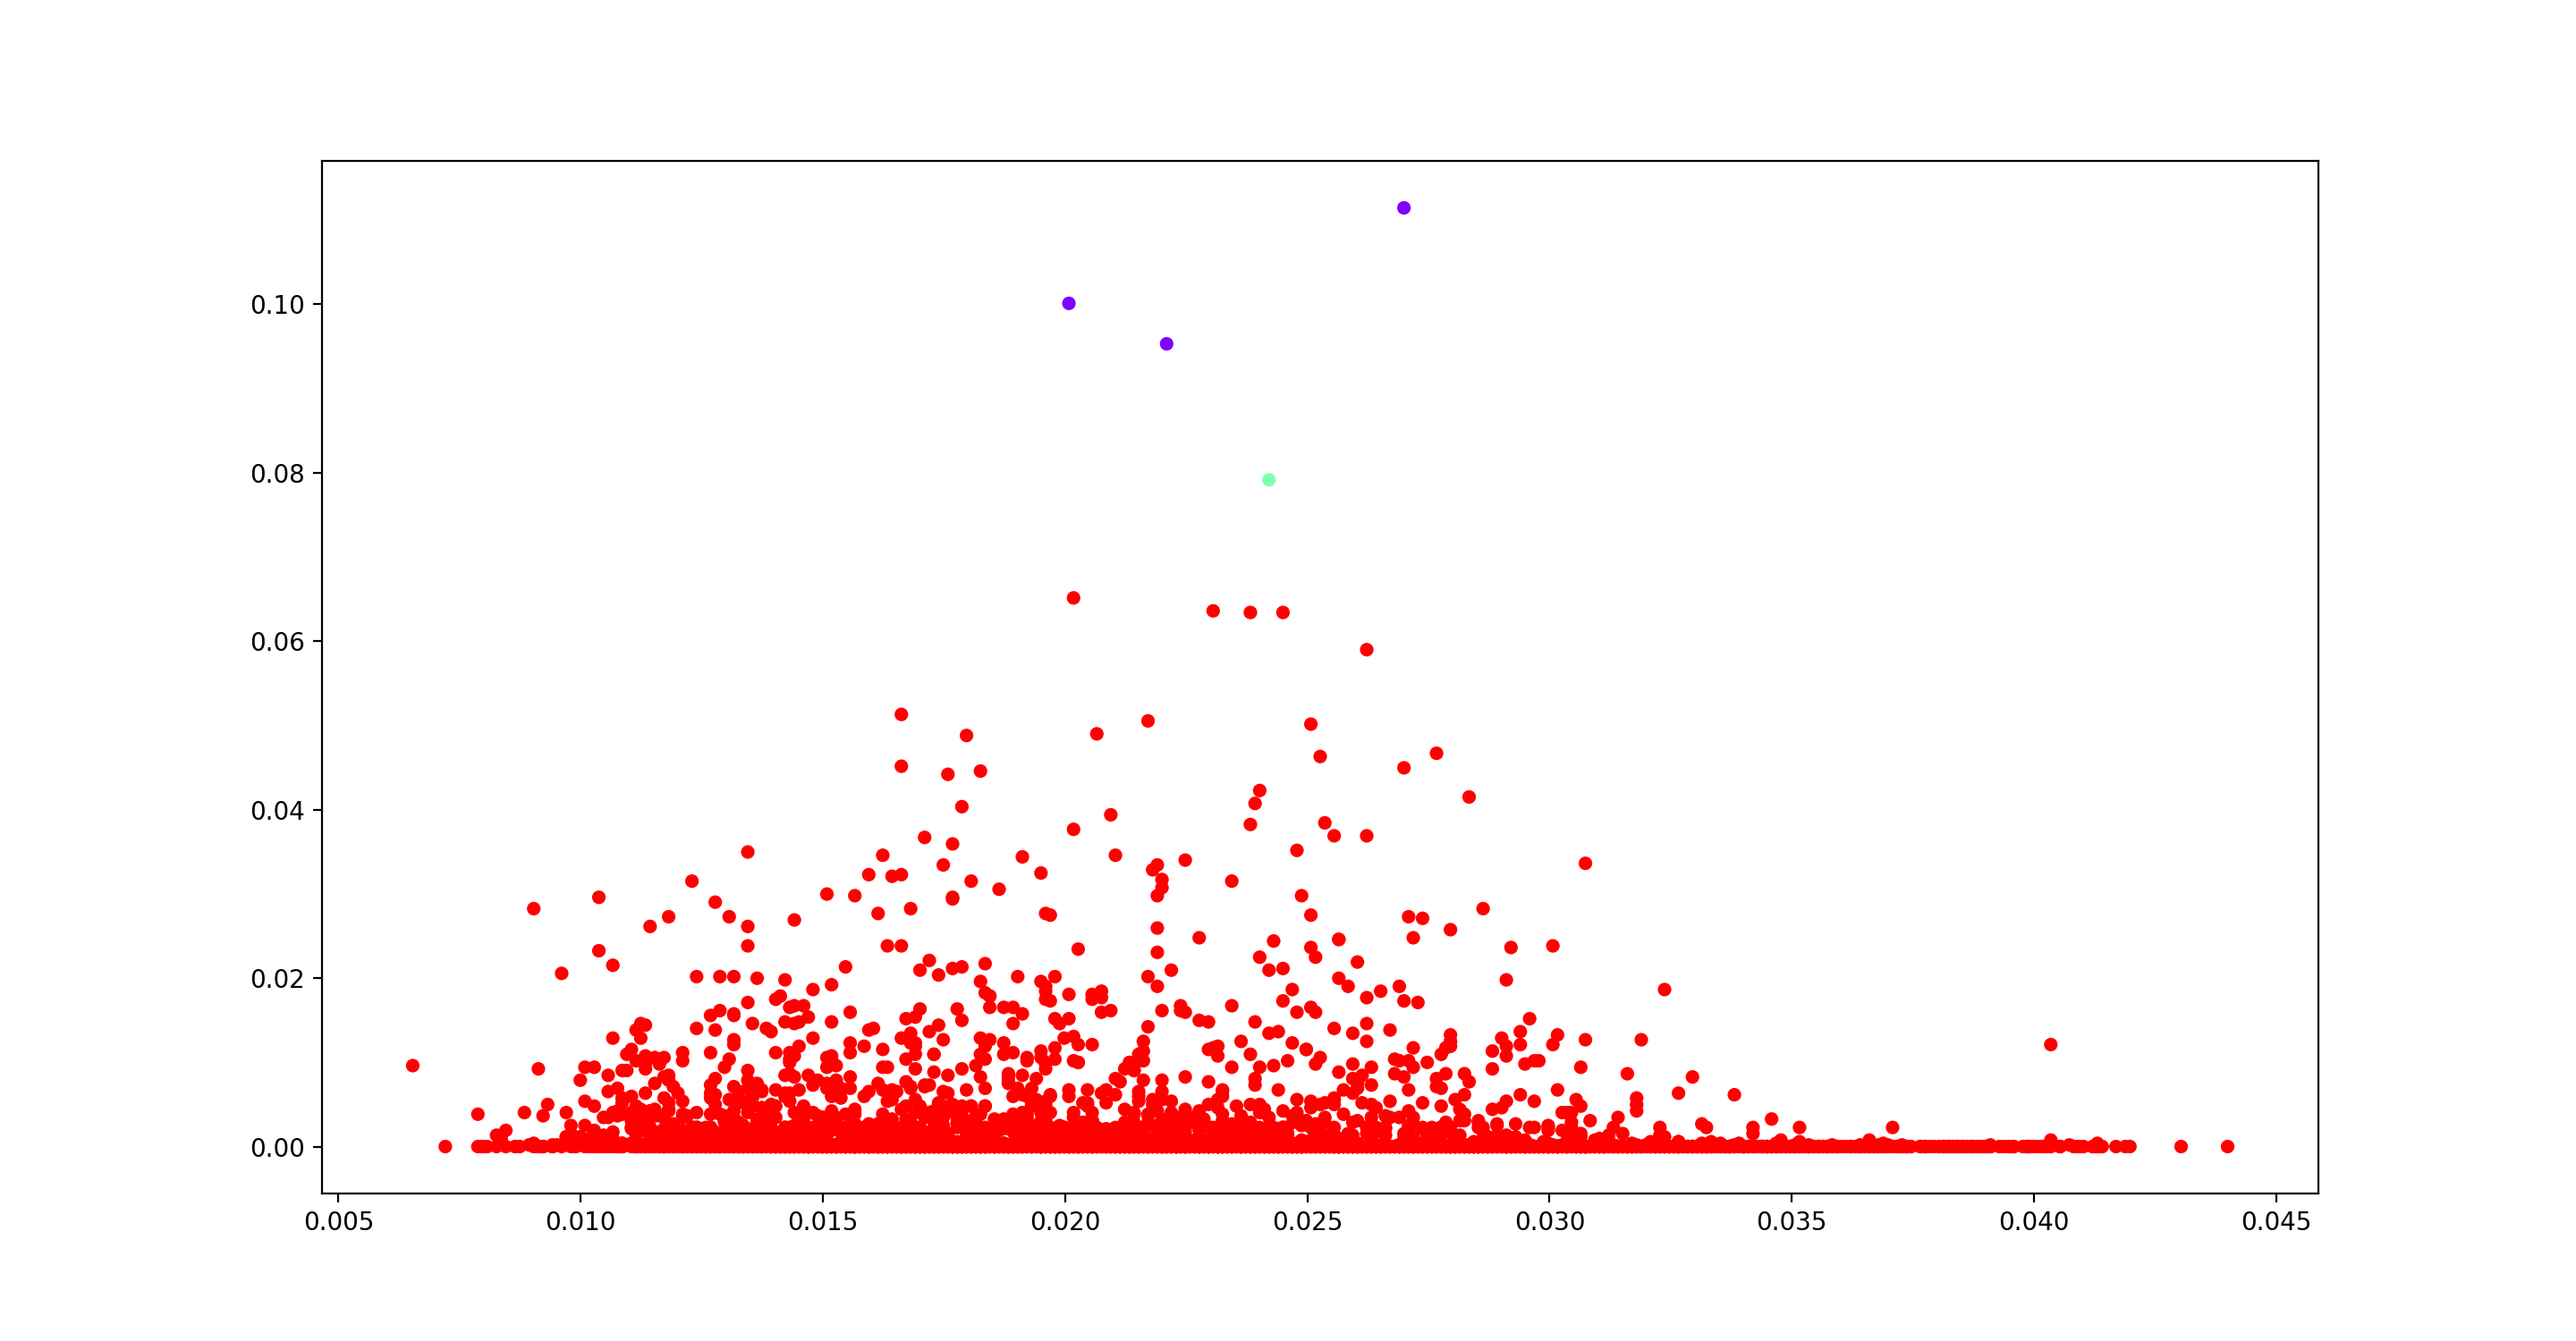
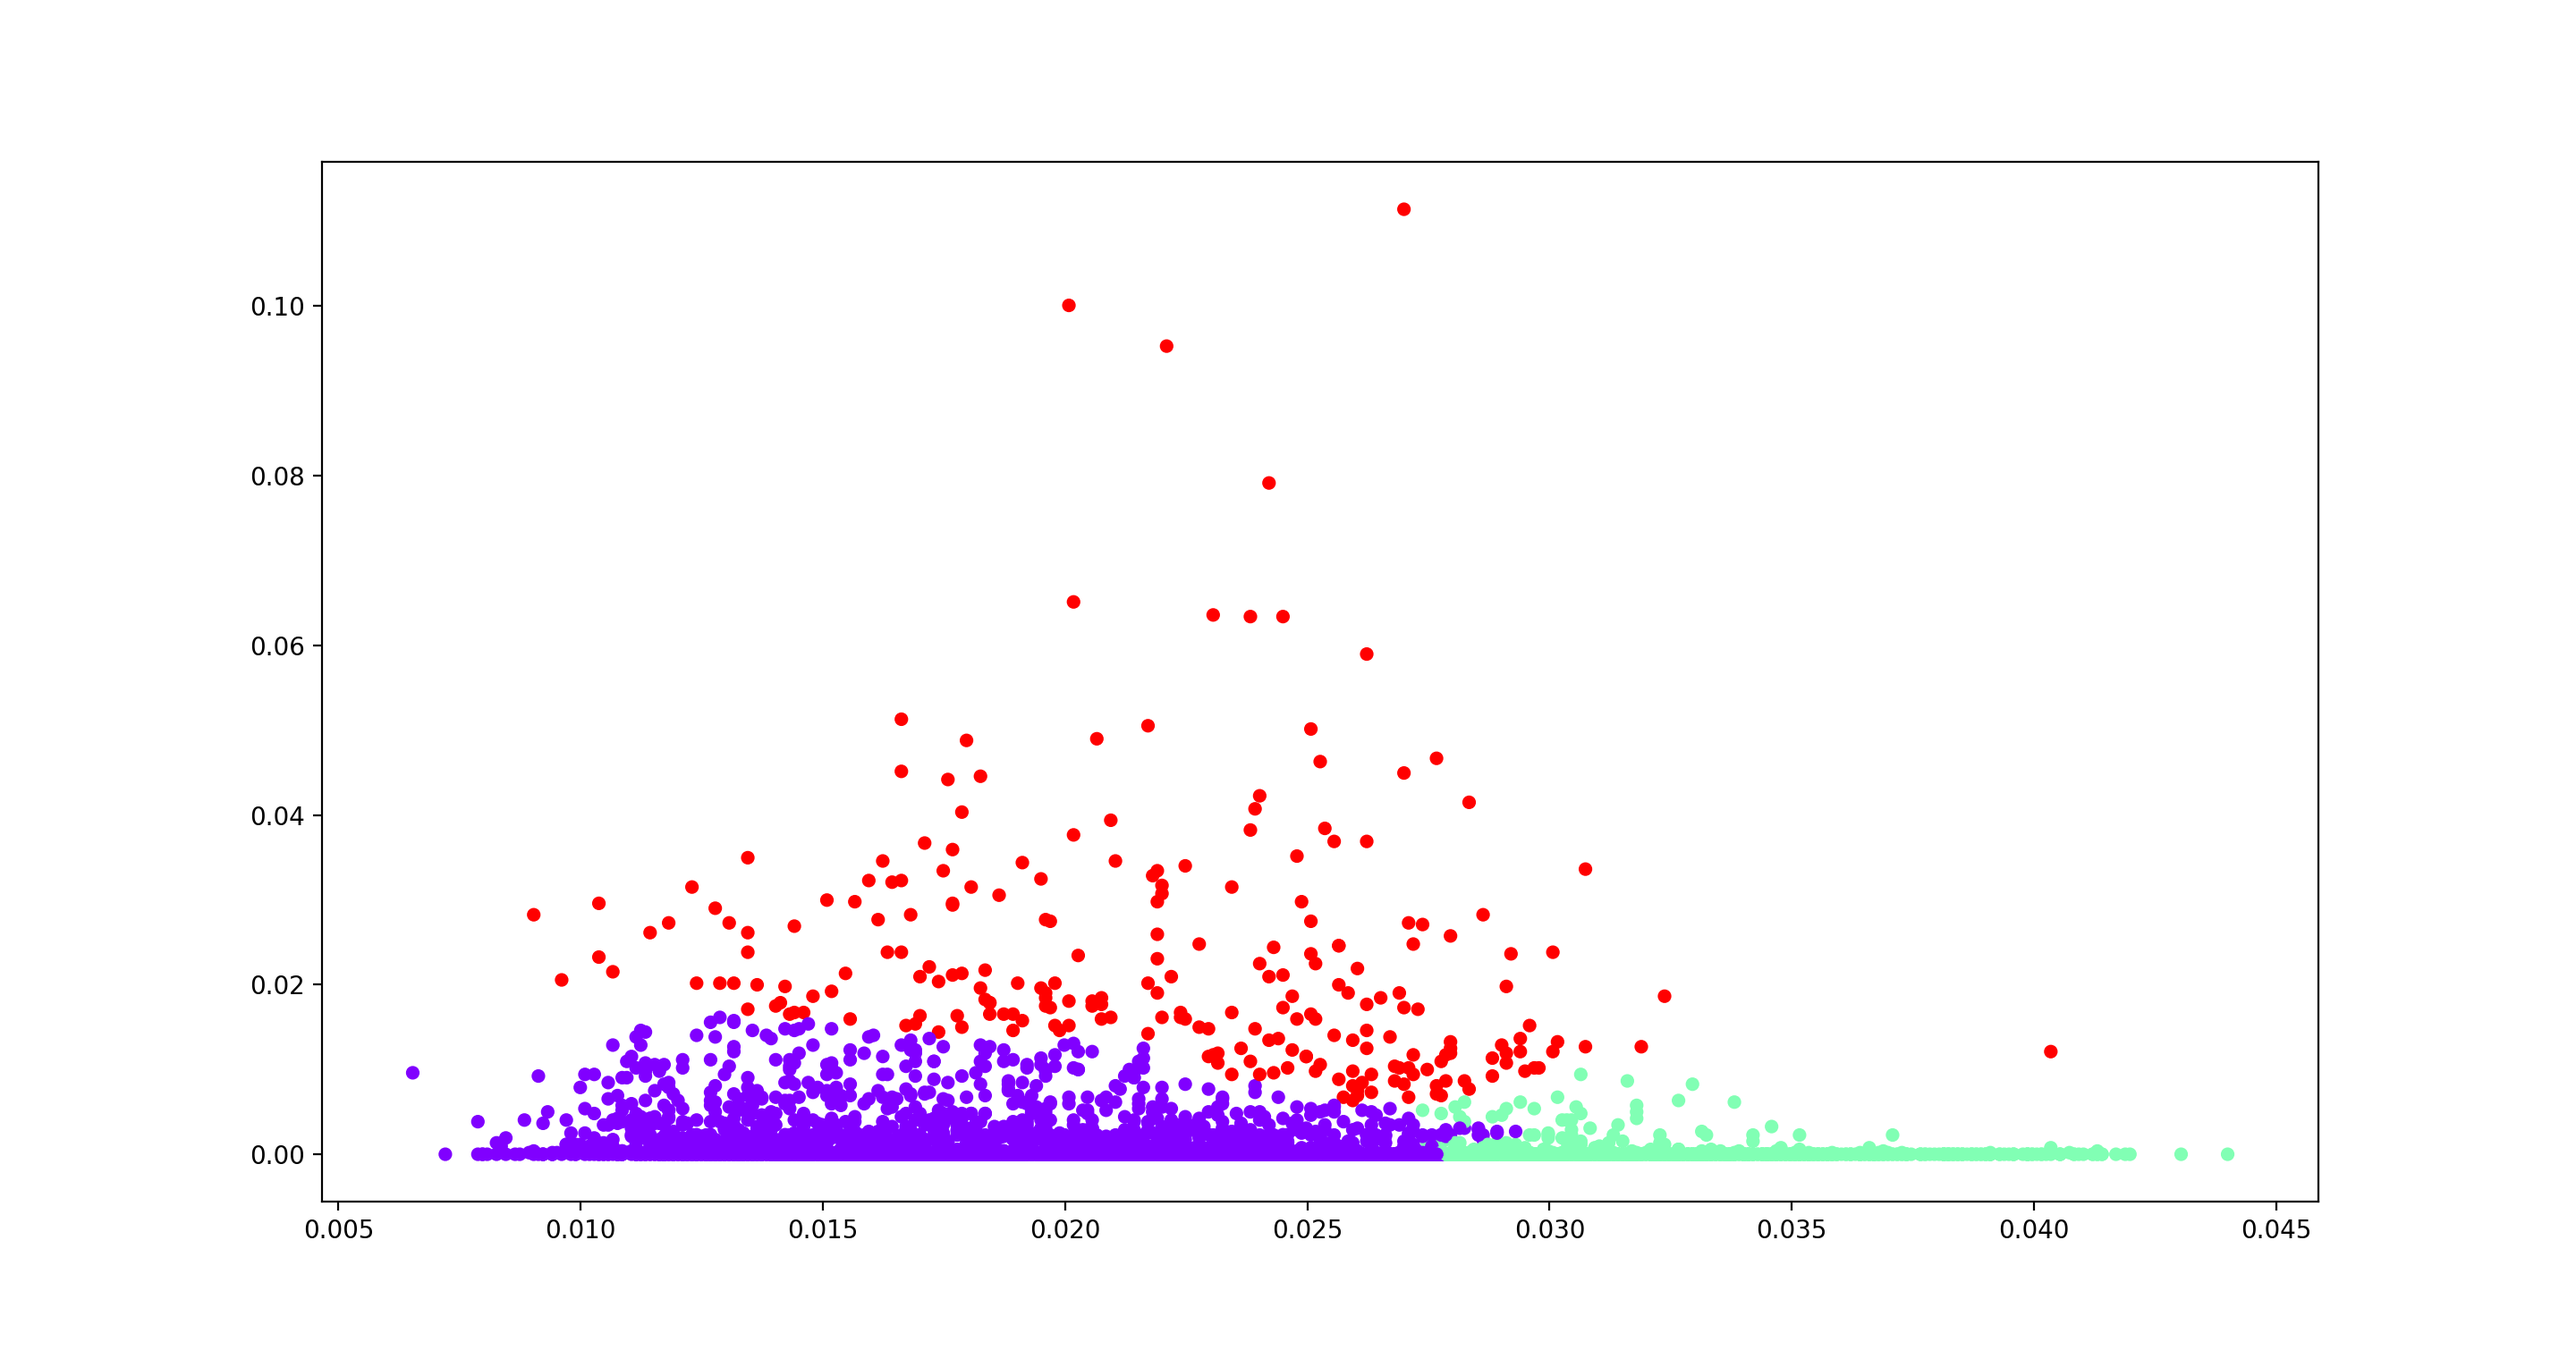
Corrected scatter plots

Changed region(s): [[0.1562, 0.736, 0.8438, 0.8587]]

diff --git a/CIS490 Final Project/CIS490_Final_Project.py b/CIS490 Final Project/CIS490_Final_Project.py
@@ -198,7 +198,7 @@ while repeat:
     elif opt == "h":
         # Hierarchical testing - Agglomerative
 
-        # Method to draw dendogram - https://scikit-learn.org/stable/auto_examples/cluster/plot_agglomerative_dendrogram.html#sphx-glr-auto-examples-cluster-plot-agglomerative-dendrogram-py
+        # Method to draw dendogram - https://scikit-learn.org/stable/auto_examples/cluster/plot_agglomerative_dendrogram. html#sphx-glr-auto-examples-cluster-plot-agglomerative-dendrogram-py
 
         def plot_dendrogram(model, **kwargs):
             # Create linkage matrix and then plot the dendrogram
@@ -255,7 +255,7 @@ while repeat:
 
         # Plot kmeans results in scatterplot
         plt.figure(figsize=(10, 10))
-        agg = AgglomerativeClustering(n_clusters=5, linkage='single')
+        agg = AgglomerativeClustering(n_clusters=3, linkage='single')
         y_agg = agg.fit_predict(x)
         plt.scatter(x[:, 0], x[:, 1], s=20, marker='o', c=y_agg, cmap='rainbow')
         plt.show()
@@ -279,7 +279,7 @@ while repeat:
 
         # Plot kmeans results in scatterplot
         plt.figure(figsize=(10, 10))
-        agg = AgglomerativeClustering(n_clusters=5, linkage='single')
+        agg = AgglomerativeClustering(n_clusters=2, linkage='single')
         y_agg = agg.fit_predict(x)
         plt.scatter(x[:, 0], x[:, 1], s=20, marker='o', c=y_agg, cmap='rainbow')
         plt.show()
@@ -303,7 +303,7 @@ while repeat:
 
         # Plot kmeans results in scatterplot
         plt.figure(figsize=(10, 10))
-        agg = AgglomerativeClustering(n_clusters=5, linkage='single')
+        agg = AgglomerativeClustering(n_clusters=2, linkage='single')
         y_agg = agg.fit_predict(x)
         plt.scatter(x[:, 0], x[:, 1], s=20, marker='o', c=y_agg, cmap='rainbow')
         plt.show()
